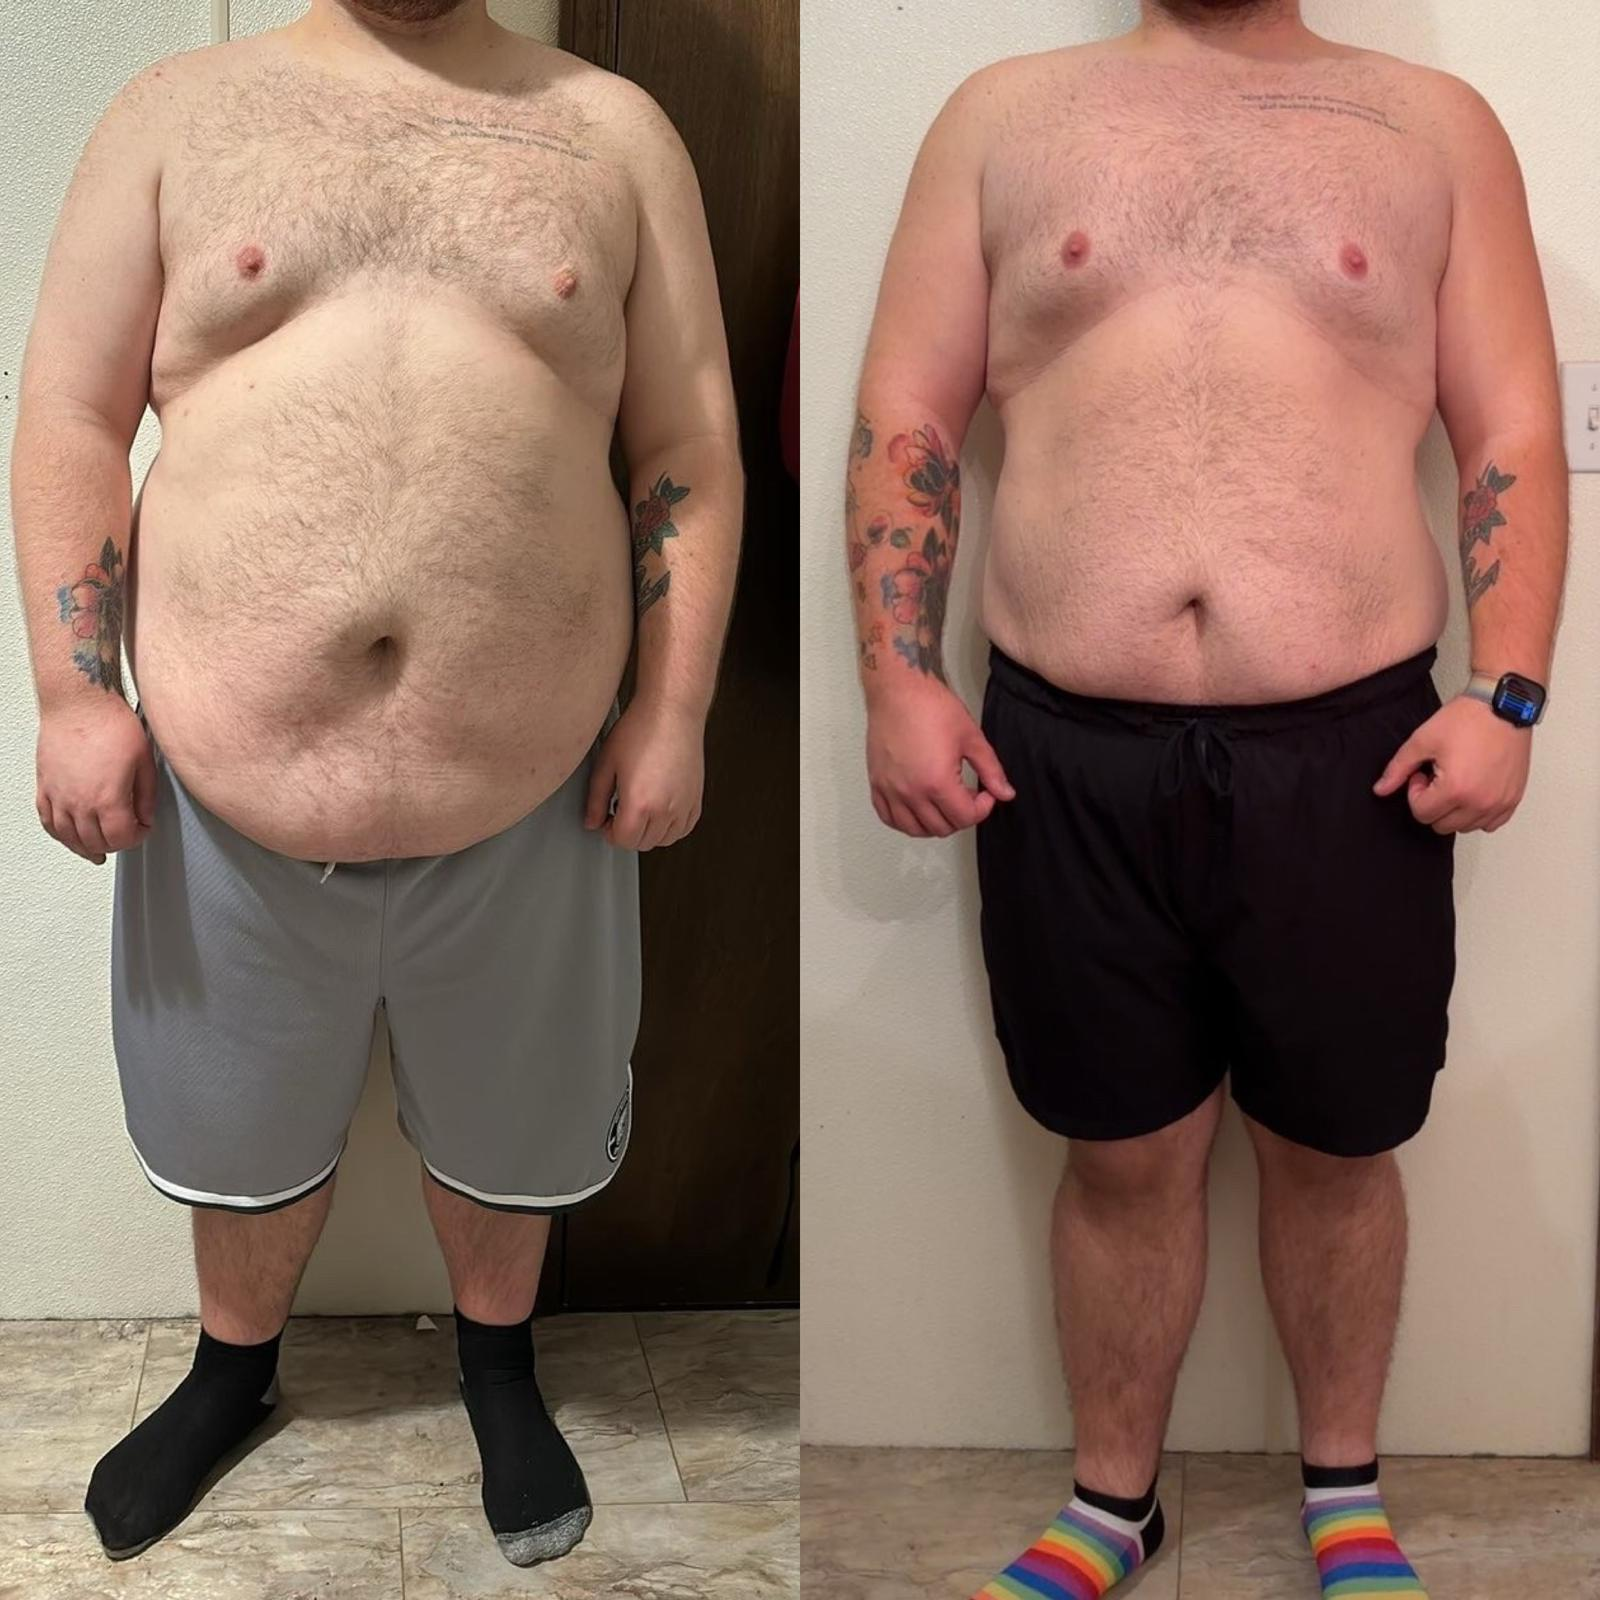
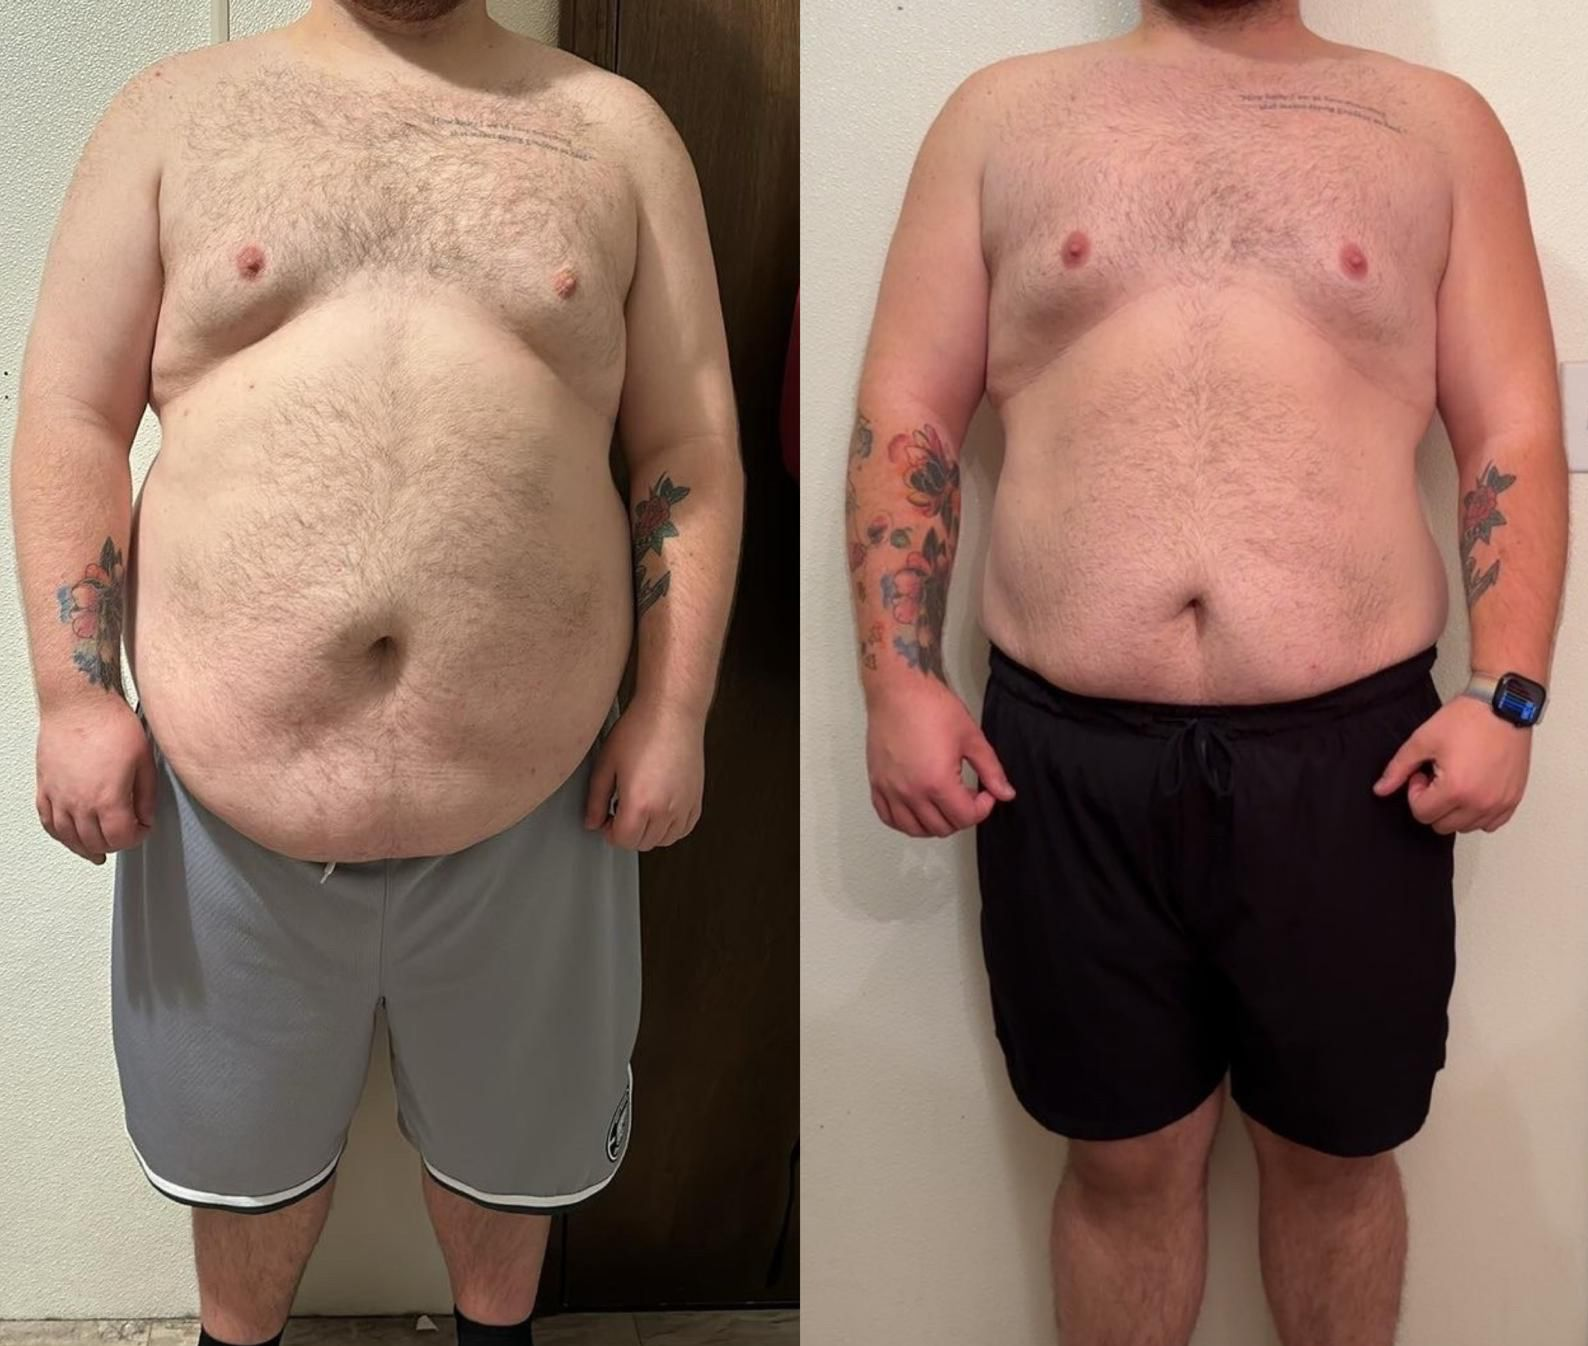
added transformation and changing style

diff --git a/src/app/testimonials.tsx b/src/app/testimonials.tsx
@@ -10,53 +10,17 @@ const TESTIMONIALS = [
   {
     images: [
       {
-        source: "/image/transformations/rui-1.jpeg",
+        source: "/image/transformations/k-1.jpeg",
         title: "Transfomation 1",
       },
       {
-        source: "/image/transformations/rui-2.jpeg",
-        title: "Transfomation 2",
-      },
-    ],
-  },
-  {
-    images: [
-      {
-        source: "/image/transformations/tanjil-1.jpeg",
-        title: "Transfomation 1",
-      },
-      {
-        source: "/image/transformations/tanjil-2.jpeg",
-        title: "Transfomation 2",
-      },
-    ],
-  },
-  {
-    images: [
-      {
-        source: "/image/transformations/mario-1.jpeg",
-        title: "Transfomation 1",
-      },
-      {
-        source: "/image/transformations/mario-2.jpeg",
+        source: "/image/transformations/k-2.jpeg",
         title: "Transfomation 2",
       },
       {
-        source: "/image/transformations/mario-3.jpeg",
+        source: "/image/transformations/k-3.jpeg",
         title: "Transfomation 3",
       },
-    ],
-  },
-  {
-    images: [
-      {
-        source: "/image/transformations/alex-1.jpeg",
-        title: "Transfomation 1",
-      },
-      {
-        source: "/image/transformations/alex-2.jpeg",
-        title: "Transfomation 2",
-      }
     ],
   },
   {
@@ -91,10 +55,45 @@ const TESTIMONIALS = [
       }
     ],
   },
+  {
+    images: [
+      {
+        source: "/image/transformations/alex-1.jpeg",
+        title: "Transfomation 1",
+      },
+      {
+        source: "/image/transformations/alex-2.jpeg",
+        title: "Transfomation 2",
+      }
+    ],
+  },
+  {
+    images: [
+      {
+        source: "/image/transformations/rui-1.jpeg",
+        title: "Transfomation 1",
+      },
+      {
+        source: "/image/transformations/rui-2.jpeg",
+        title: "Transfomation 2",
+      },
+    ],
+  },
+  {
+    images: [
+      {
+        source: "/image/transformations/tanjil-1.jpeg",
+        title: "Transfomation 1",
+      },
+      {
+        source: "/image/transformations/tanjil-2.jpeg",
+        title: "Transfomation 2",
+      },
+    ],
+  }
 ];
 
 export function Testimonials() {
-  // 1. Destructure emblaApi to control the carousel via buttons
   const [emblaRef, emblaApi] = useEmblaCarousel({ 
     loop: true, 
     align: 'start',
@@ -103,7 +102,6 @@ export function Testimonials() {
     Autoplay({ delay: 3000, stopOnInteraction: true })
   ]);
 
-  // 2. Button Handlers
   const scrollPrev = useCallback(() => {
     if (emblaApi) emblaApi.scrollPrev();
   }, [emblaApi]);
@@ -137,7 +135,7 @@ export function Testimonials() {
             {TESTIMONIALS.map(({ images }, key) => (
               <div 
                 key={key}
-                className="flex-[0_0_100%] md:flex-[0_0_50%] lg:flex-[0_0_25%] min-w-0 pl-[16px] relative h-[400px]"
+                className="flex-[0_0_100%] md:flex-[0_0_50%] lg:flex-[0_0_33.33%] min-w-0 pl-[24px] relative h-[450px]"
               >
                 <div className="relative h-full w-full rounded-xl overflow-hidden shadow-md">
                   <GalleryWithCarousel key={key} {...images} />
